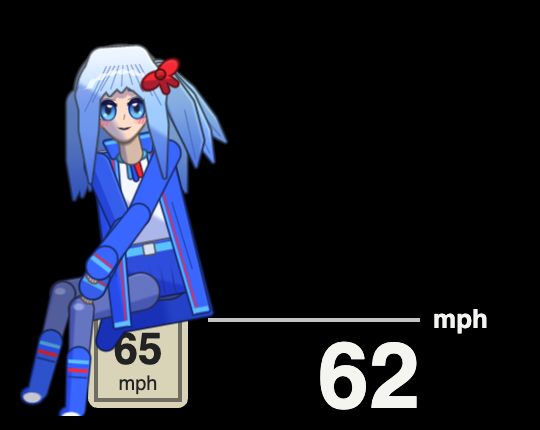
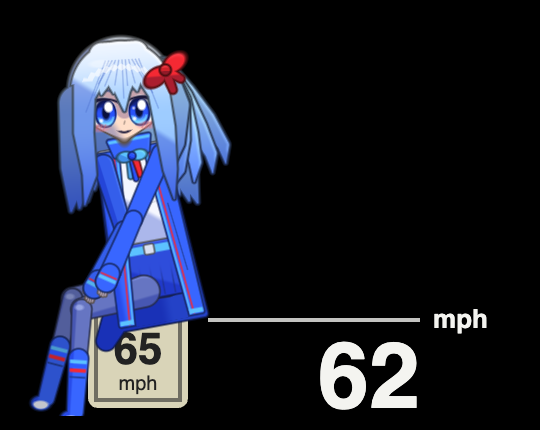
Custom HUD 0.1.7: Perch girl in a desktop mascot's style
Bigger head, round face with a small chin, big layered eyes with several
highlights and fine lashes, a fringe of thin pointed locks, wavy side locks
and a loose wavy five-strand ponytail with painted highlights, slimmer body,
limbs and hands, knees together. The neck now sits under the collar.

Changed region(s): [[0.0296, 0.0605, 0.4444, 0.9674]]

diff --git a/shared/shaders.js b/shared/shaders.js
@@ -1203,7 +1203,9 @@ void main() {
 const PERCH = `// The Perch layout's girl (GLSL ES 1.00): an original anime girl, toon shaded as a desktop mascot's 3D model is (a lit
 // side, a cool shadow side away from the light at the top right, a rim light, thin dark-tone outlines), in an open M-blue
 // racing coat with light blue and red trim over a white top with an M-stripe bow, shorts with a belt, tights and boots;
-// silver-to-blue hair with a fringe of separate locks, long side locks and a side ponytail of three strands. She sits on
+// silver-to-blue hair with a fringe of thin pointed locks, long wavy side locks and a loose wavy side ponytail of five
+// strands, painted highlights; a desktop mascot's proportions (a big head, big tall eyes low in a round face, a small
+// chin, a slim body and limbs). She sits on
 // the top-left corner of BMW's speed-limit sign leaning forward, hands on her knees, legs hanging off its left side.
 // Drawn from shapes in "model" units (the sign's corner is fixed, everything else is drawn u_scale times bigger), so
 // nothing is uploaded, and animated by the renderer's clock (u_time): legs swing (the near heel taps the sign), she
@@ -1243,6 +1245,7 @@ const vec3 LINE = vec3(0.1, 0.09, 0.22);
 const vec2 LIGHT = vec2(0.55, -0.835);
 
 float gK;   // screen px per drawing unit, for antialiasing
+const float HS = 1.36;   // the head's scale
 
 vec2 rot(vec2 p, float a) { float c = cos(a), s = sin(a); return vec2(c * p.x - s * p.y, s * p.x + c * p.y); }
 float sdSeg(vec2 p, vec2 a, vec2 b) { vec2 pa = p - a, ba = b - a; float h = clamp(dot(pa, ba) / dot(ba, ba), 0.0, 1.0); return length(pa - ba * h); }
@@ -1292,16 +1295,16 @@ void limb(inout vec4 c, vec2 p, vec2 a, vec2 b, float ra, float rb, vec3 col) {
 // a leg: thigh from the hip to the knee, shin hanging at angle a (0 = straight down, + = foot towards the sign)
 void leg(inout vec4 c, vec2 p, vec2 hip, vec2 knee, float a, float shade) {
     vec2 dir = vec2(sin(a), cos(a));
-    vec2 ankle = knee + dir * 31.0;
-    limb(c, p, hip, knee, 5.8, 4.0, TIGHTS * shade);
-    limb(c, p, knee, ankle, 3.7, 2.3, TIGHTS * shade);
-    paint(c, sdEll(p, knee + vec2(-1.0, -0.8), vec2(1.7, 1.1)), vec3(0.75, 0.8, 1.0) * shade, 0.55);   // the tights' sheen
+    vec2 ankle = knee + dir * 32.0;
+    limb(c, p, hip, knee, 4.9, 3.3, TIGHTS * shade);
+    limb(c, p, knee, ankle, 3.0, 1.9, TIGHTS * shade);
+    paint(c, sdEll(p, knee + vec2(-0.8, -0.6), vec2(1.4, 0.9)), vec3(0.75, 0.8, 1.0) * shade, 0.55);   // the tights' sheen
     // boot: from mid-shin, a white toe cap and sole, the M tricolour round its top
     vec2 bootTop = knee + dir * 16.0, toe = ankle + dir * 3.2 + rot(dir, 1.57) * 1.3;
-    float boot = min(sdLimb(p, bootTop, ankle + dir * 1.2, 3.6, 3.0), sdEll(p, toe, vec2(3.5, 2.7)));
-    toon(c, boot, limbN(p, bootTop, ankle, 3.6), BOOT * shade);
+    float boot = min(sdLimb(p, bootTop, ankle + dir * 1.2, 3.0, 2.5), sdEll(p, toe, vec2(3.0, 2.2)));
+    toon(c, boot, limbN(p, bootTop, ankle, 3.0), BOOT * shade);
     float inBoot = cov(boot + 0.25);
-    paint(c, sdEll(p, toe + dir * 0.8, vec2(3.0, 1.7)), TOP * shade, inBoot);
+    paint(c, sdEll(p, toe + dir * 0.7, vec2(2.6, 1.4)), TOP * shade, inBoot);
     float along = dot(p - bootTop, dir);
     paint(c, abs(along - 1.0) - 0.6, M_LIGHT * shade, inBoot);
     paint(c, abs(along - 2.4) - 0.6, M_DARK * shade * 1.15, inBoot);
@@ -1311,23 +1314,23 @@ void leg(inout vec4 c, vec2 p, vec2 hip, vec2 knee, float a, float shade) {
 
 // a hand: the palm, four fingers draped forward and down, the thumb on the inner side ("side" +1 / -1)
 void hand(inout vec4 c, vec2 p, vec2 wrist, vec2 fd, float side, float fist, float shade) {
-    vec2 pc = wrist + fd * 1.8;
+    vec2 pc = wrist + fd * 1.5;
     vec2 sd = vec2(-fd.y, fd.x);
-    float palm = sdEll(rot(p - pc, -atan(fd.y, fd.x)), vec2(0.0), vec2(2.1, 1.8));
+    float palm = sdEll(rot(p - pc, -atan(fd.y, fd.x)), vec2(0.0), vec2(1.8, 1.45));
     float fingers = 10.0;
     if (fist < 0.5) {
         vec2 f2 = normalize(fd + vec2(0.0, 0.7));
         for (int i = 0; i < 4; i++) {
             float k = float(i) - 1.5;
-            vec2 r = pc + fd * 1.2 + sd * k * 0.85;
-            fingers = min(fingers, sdLimb(p, r, r + f2 * (2.9 - abs(k) * 0.35), 0.55, 0.42));
+            vec2 r = pc + fd * 1.1 + sd * k * 0.68;
+            fingers = min(fingers, sdLimb(p, r, r + f2 * (2.7 - abs(k) * 0.35), 0.44, 0.3));
         }
-        fingers = min(fingers, sdLimb(p, pc + sd * side * 1.4, pc + sd * side * 2.4 + fd * 1.6, 0.6, 0.45));   // thumb
-    } else palm = sdEll(p, pc + fd * 0.6, vec2(2.4, 2.3));
+        fingers = min(fingers, sdLimb(p, pc + sd * side * 1.1, pc + sd * side * 2.0 + fd * 1.5, 0.48, 0.34));   // thumb
+    } else palm = sdEll(p, pc + fd * 0.6, vec2(2.0, 1.9));
     float d = min(palm, fingers);
     toon(c, d, (p - pc) / 3.0, SKIN * shade);
     if (fist < 0.5) for (int i = 0; i < 3; i++) {
-        vec2 r = pc + fd * 1.2 + sd * (float(i) - 1.0) * 0.85;
+        vec2 r = pc + fd * 1.1 + sd * (float(i) - 1.0) * 0.68;
         paint(c, sdSeg(p, r, r + normalize(fd + vec2(0.0, 0.7)) * 2.2) - 0.08, SKIN * 0.55, cov(d + 0.2) * 0.8);   // the gaps
     }
 }
@@ -1337,16 +1340,16 @@ void arm(inout vec4 c, vec2 p, vec2 sh, vec2 wr, float l, float out_, float fist
     vec2 m = (sh + wr) * 0.5, d = wr - sh;
     float h = sqrt(max(0.0, l * l - dot(d, d) * 0.25));
     vec2 el = m + normalize(vec2(-d.y, d.x)) * h * out_;
-    limb(c, p, sh, el, 4.0, 3.4, COAT * shade);
+    limb(c, p, sh, el, 3.1, 2.6, COAT * shade);
     vec2 fd = normalize(wr - el);
-    limb(c, p, el, wr - fd * 1.0, 3.4, 3.9, COAT * shade);    // the sleeve flares to the cuff
+    limb(c, p, el, wr - fd * 1.0, 2.6, 3.1, COAT * shade);    // the sleeve flares to the cuff
     hand(c, p, wr - fd * 1.6, fd, side, fist, shade);
     // the cuff: a light blue band with a red line, drawn over the wrist
-    float cuff = sdLimb(p, wr - fd * 4.2, wr - fd * 1.0, 3.8, 4.0);
-    toon(c, cuff, limbN(p, el, wr, 4.0), COAT * shade);
+    float cuff = sdLimb(p, wr - fd * 3.8, wr - fd * 1.0, 3.0, 3.2);
+    toon(c, cuff, limbN(p, el, wr, 3.2), COAT * shade);
     float along = dot(p - wr, fd);
-    paint(c, abs(along + 2.0) - 0.75, M_LIGHT * shade, cov(cuff + 0.2));
-    paint(c, abs(along + 3.3) - 0.3, M_RED * shade, cov(cuff + 0.2));
+    paint(c, abs(along + 1.9) - 0.6, M_LIGHT * shade, cov(cuff + 0.2));
+    paint(c, abs(along + 3.0) - 0.25, M_RED * shade, cov(cuff + 0.2));
 }
 
 void main() {
@@ -1365,7 +1368,7 @@ void main() {
     float breath = sin(t * 1.7);
     float ang = -0.2 + 0.3 * go - 0.16 * brake + 0.025 * sin(t * 0.8);
 
-    vec2 kneeN = sTop + vec2(-2.0, 3.0), kneeF = sTop + vec2(-8.0, -2.0);
+    vec2 kneeN = sTop + vec2(-2.0, 3.0), kneeF = sTop + vec2(-5.0, -0.5);
     float swing = mix(0.24, 0.12, moving) * (1.0 - brake);
     float oscN = mix(sin(t * 2.0), sin(t * 3.0), moving), oscF = mix(sin(t * 2.0 + 2.6), sin(t * 3.0 + 2.6), moving);
     float base = -0.08 + 0.1 * go - 0.45 * brake;
@@ -1374,15 +1377,15 @@ void main() {
 
     vec2 q = rot(p - hip, -ang);                    // her upper body's own frame, hip at 0, y down
     float tilt = 0.06 * sin(t * 0.55) * (1.0 - 0.5 * moving) + 0.1 - 0.1 * brake + 0.05 * go;
-    vec2 head = vec2(0.0, -61.5 + breath * 0.4);
-    vec2 h = rot(q - head, -tilt) / 1.2;            // the head's frame, 1.2x
+    vec2 head = vec2(0.0, -61.8 + breath * 0.4);
+    vec2 h = rot(q - head, -tilt) / HS;             // the head's frame, HS times bigger (a desktop mascot's big head)
 
     vec4 c = vec4(0.0);
     float flutter = sin(t * 1.6) * 0.14 * (1.0 - spd) + (sin(t * 7.0) * 0.06 + sin(t * 11.0 + 1.3) * 0.035) * spd;
     float blow = spd * 0.85 + brake * 0.3;
 
     // ---- behind everything: the long hair down her back, the side ponytail, the coat's back and lining
-    gK = K * 1.2;
+    gK = K * HS;
     {
         // the crown, and four long locks down each side behind the shoulders, swaying and blown back with speed
         float backHair = sdEll(h, vec2(0.0, -2.0), vec2(12.6, 13.0));
@@ -1398,52 +1401,58 @@ void main() {
     }
     vec2 tie = vec2(10.8, -6.5);
     vec2 d0 = normalize(mix(vec2(0.3, 1.0), vec2(1.0, 0.05), blow));
-    for (int s = 0; s < 3; s++) {
-        float fs = float(s) - 1.0;
-        float ph = fs * 0.7;
-        vec2 a0 = tie + vec2(0.5, 0.8) * fs;
-        vec2 a1 = a0 + rot(d0, flutter + fs * 0.12) * 9.5;
-        vec2 a2 = a1 + rot(d0, flutter * 2.0 + 0.15 + fs * 0.18 + 0.05 * sin(t * 1.3 + ph)) * 9.5;
-        vec2 a3 = a2 + rot(d0, flutter * 3.0 + 0.3 + fs * 0.3 + 0.1 * sin(t * 1.1 + ph)) * (8.5 - abs(fs) * 1.5);
-        float dS = min(min(sdLimb(h, a0, a1, 3.0, 3.6), sdLimb(h, a1, a2, 3.6, 2.6)), sdLimb(h, a2, a3, 2.6, 0.25));
-        toon(c, dS, limbN(h, a0, a3, 3.6), hairCol(h.y + 6.0 + fs * 2.0) * (s == 1 ? 1.0 : 0.88));
-        paint(c, sdSeg(h, mix(a1, a2, 0.1) + vec2(0.6, 0.0), mix(a2, a3, 0.7)) - 0.12, HAIR_B * 0.7, cov(dS + 0.6) * 0.8);   // strand line
+    for (int s = 0; s < 5; s++) {
+        float fs = float(s) / 2.0 - 1.0;               // -1 .. 1 across the tail
+        float ph = fs * 1.3;
+        vec2 a0 = tie + vec2(0.4, 0.7) * fs;
+        vec2 dn = rot(d0, 1.5708);
+        // a loose wave running down the strand, a little out of step with its neighbours
+        vec2 a1 = a0 + rot(d0, flutter + fs * 0.16) * 8.0 + dn * sin(t * 1.4 + ph) * 0.8;
+        vec2 a2 = a1 + rot(d0, flutter * 2.0 + 0.12 + fs * 0.24) * 8.0 + dn * sin(t * 1.4 + ph - 1.2) * 1.4;
+        vec2 a3 = a2 + rot(d0, flutter * 3.0 + 0.25 + fs * 0.36) * 7.5 + dn * sin(t * 1.4 + ph - 2.4) * 1.8;
+        vec2 a4 = a3 + rot(d0, flutter * 3.5 + 0.5 + fs * 0.5) * (5.5 - abs(fs) * 1.5) + dn * sin(t * 1.4 + ph - 3.6) * 1.6;
+        float dS = min(min(sdLimb(h, a0, a1, 2.2, 2.6), sdLimb(h, a1, a2, 2.6, 2.2)), min(sdLimb(h, a2, a3, 2.2, 1.4), sdLimb(h, a3, a4, 1.4, 0.15)));
+        toon(c, dS, limbN(h, a0, a4, 2.6), hairCol(h.y + 5.0 + abs(fs) * 3.0) * (0.86 + 0.14 * (1.0 - abs(fs))));
+        paint(c, sdSeg(h, mix(a0, a1, 0.5) + dn * 0.5, mix(a1, a2, 0.6) + dn * 0.5) - 0.18, vec3(1.0), cov(dS + 0.5) * 0.45);   // a painted highlight
     }
     gK = K;
-    float coatBack = sdTrap(q, vec2(0.0, -17.0), 11.5, 15.5, 28.0) - 1.0;
+    float coatBack = sdTrap(q, vec2(0.0, -17.0), 10.0, 13.8, 28.0) - 1.0;
     coatBack = min(coatBack, sdLimb(q, vec2(-12.0, 4.0), vec2(-19.0, 14.0), 5.0, 3.0));   // the tail draped over the sign's edge
     toon(c, coatBack, vec2(q.x / 18.0, 0.4), LINING);
 
     // ---- far leg, then the body
-    leg(c, p, hip + rot(vec2(4.0, -2.0), ang * 0.3), kneeF, aF, 0.8);
-    float hips = sdTrap(q, vec2(0.0, -6.0), 8.0, 12.0, 8.0) - 1.0;
+    leg(c, p, hip + rot(vec2(3.0, -2.0), ang * 0.3), kneeF, aF, 0.8);
+    float hips = sdTrap(q, vec2(0.0, -6.0), 7.0, 10.5, 8.0) - 1.0;
     toon(c, hips, (q - vec2(0.0, -6.0)) / vec2(13.0, 9.0), SHORTS);
     paint(c, abs(fract((q.x + 40.0) / 3.4) - 0.5) * 3.4 - 0.2, SHORTS * 0.6, cov(hips + 0.4) * smoothstep(-8.0, 0.0, q.y) * 0.8);   // pleats
     float belt = max(hips + 0.3, abs(q.y + 12.6) - 1.3);
     paint(c, belt, M_LIGHT, 1.0);
-    toon(c, sdBoxR(q, vec2(0.0, -12.6), vec2(1.6, 1.6)), vec2(0.3, -0.3), vec3(0.85, 0.88, 0.95));  // buckle
-    float chest = sdTrap(q, vec2(0.0, -31.0 + breath * 0.25), 11.5, 8.0, 14.0) - 1.5;
+    toon(c, sdBoxR(q, vec2(0.0, -12.6), vec2(1.4, 1.4)), vec2(0.3, -0.3), vec3(0.85, 0.88, 0.95));  // buckle
+    float chest = sdTrap(q, vec2(0.0, -31.0 + breath * 0.25), 9.6, 7.0, 14.0) - 1.4;
     toon(c, chest, (q - vec2(0.0, -31.0)) / vec2(13.0, 16.0), TOP);
     paint(c, abs(length((q - vec2(0.0, -40.0)) * vec2(0.7, 1.0)) - 13.0) - 0.15, TOP * 0.72, cov(chest + 1.5) * step(q.y, -24.0) * 0.6);   // a fold under the chest
 
+    // the neck, under the collar
+    toon(c, sdLimb(q, vec2(0.0, -44.0), vec2(-0.6, -49.5), 2.6, 2.4), vec2(q.x / 2.6, 0.0), SKIN * 0.84);
+
     // near thigh, under the coat's front
-    vec2 hipN = hip + rot(vec2(-5.0, 1.0), ang * 0.3);
+    vec2 hipN = hip + rot(vec2(-4.0, 1.0), ang * 0.3);
     leg(c, p, hipN, kneeN, aN, 1.0);
 
     // the coat's front panels: open over the top, light blue trim along the opening and the hem
-    float outer = sdTrap(q, vec2(0.0, -17.5), 12.0, 15.0, 27.5) - 0.6;
-    float opening = sdTrap(q, vec2(0.0, -17.0), 4.5, 10.5, 29.0);
+    float outer = sdTrap(q, vec2(0.0, -17.5), 10.4, 13.2, 27.5) - 0.6;
+    float opening = sdTrap(q, vec2(0.0, -17.0), 4.0, 9.2, 29.0);
     float panels = max(outer, -opening);
     toon(c, panels, vec2(sign(q.x) * clamp((abs(q.x) - 7.0) / 9.0, -1.0, 1.0), 0.0), COAT);
     float inP = cov(panels + 0.2);
     paint(c, abs(opening) - 0.75, M_LIGHT, inP);
     paint(c, abs(opening - 1.5) - 0.25, M_RED, inP);
     paint(c, abs(q.y - 9.6) - 0.8, M_LIGHT, inP);
-    paint(c, sdSeg(q, vec2(-10.5, -30.0), vec2(-12.0, -6.0)) - 0.12, COAT * 0.55, inP);   // fold lines
-    paint(c, sdSeg(q, vec2(10.0, -26.0), vec2(12.5, -4.0)) - 0.12, COAT * 0.55, inP);
+    paint(c, sdSeg(q, vec2(-9.0, -30.0), vec2(-10.5, -6.0)) - 0.12, COAT * 0.55, inP);   // fold lines
+    paint(c, sdSeg(q, vec2(8.6, -26.0), vec2(11.0, -4.0)) - 0.12, COAT * 0.55, inP);
     // stand collar and the M-stripe bow
-    toon(c, sdTrap(q, vec2(0.0, -46.5), 7.5, 6.0, 2.4) - 0.6, vec2(q.x / 9.0, -0.2), COAT);
-    paint(c, abs(q.y + 48.6) - 0.5, M_LIGHT, cov(sdTrap(q, vec2(0.0, -46.5), 7.5, 6.0, 2.4) - 0.4));
+    toon(c, sdTrap(q, vec2(0.0, -46.5), 6.4, 5.2, 2.4) - 0.6, vec2(q.x / 9.0, -0.2), COAT);
+    paint(c, abs(q.y + 48.6) - 0.5, M_LIGHT, cov(sdTrap(q, vec2(0.0, -46.5), 6.4, 5.2, 2.4) - 0.4));
     vec2 bw = q - vec2(0.0, -43.2);
     for (int i = 0; i < 3; i++) {
         float k = float(i) - 1.0;
@@ -1454,34 +1463,38 @@ void main() {
     toon(c, length(bw) - 1.0, bw, M_DARK);
 
     // ---- arms: hands on her knees; pulling away hard, her far hand (the screen's right) goes up in a fist
-    vec2 shN = hip + rot(vec2(-11.5, -42.0), ang), shF = hip + rot(vec2(11.5, -42.0), ang);
+    vec2 shN = hip + rot(vec2(-9.6, -42.0), ang), shF = hip + rot(vec2(9.6, -42.0), ang);
     float cheer = smoothstep(0.45, 0.8, go);
-    vec2 wrN = kneeN + vec2(3.0, -6.5);
-    vec2 wrF = mix(kneeF + vec2(11.0, -8.0), shF + vec2(16.0 + sin(t * 9.0) * 1.0, -17.0), cheer);
+    vec2 wrN = kneeN + vec2(3.5, -6.0);
+    vec2 wrF = mix(kneeN + vec2(7.5, -8.0), shF + vec2(16.0 + sin(t * 9.0) * 1.0, -17.0), cheer);
     arm(c, p, shN, wrN, 22.0, -1.0, 0.0, 1.0, 0.92);
     arm(c, p, shF, wrF, 22.0, mix(-1.0, 1.0, cheer), cheer, -1.0, 1.0);
 
-    // ---- neck and head (1.2x)
-    toon(c, sdLimb(q, vec2(0.0, -44.0), vec2(0.0, -49.5), 3.4, 3.1), vec2(q.x / 3.4, 0.0), SKIN * 0.84);
-    gK = K * 1.2;
-    float rx = 8.9 - 3.6 * clamp((h.y - 1.0) / 9.5, 0.0, 1.0);
-    float face = (length(vec2(h.x / rx, h.y / 10.7)) - 1.0) * min(rx, 10.7);
+    // ---- neck and head
+    gK = K * HS;
+    float jaw = clamp((h.y - 3.0) / 6.3, 0.0, 1.0);
+    float rx = 9.6 * (1.0 - 0.68 * jaw * jaw);             // round cheeks curving into a small chin
+    float face = (length(vec2(h.x / rx, h.y / 9.3)) - 1.0) * min(rx, 9.3);
     toon(c, face, vec2(h.x / 11.0, h.y / 30.0), SKIN);
 
     // the fringe's locks (used for its shadow on the face, then drawn)
     float bangs = max(sdEll(h, vec2(0.0, -2.0), vec2(11.9, 12.0)), h.y + 4.5);
-    for (int i = 0; i < 9; i++) {
-        float f = float(i) / 4.0 - 1.0;
-        vec2 r0 = vec2(f * 4.5, -11.0);
-        vec2 tip = vec2(f * 10.6 + 0.7 * sin(f * 3.0), -3.0 + 7.8 * f * f + 0.7 * sin(float(i) * 2.3) + flutter * 1.5 * f);
-        vec2 mid = mix(r0, tip, 0.55) + vec2(f * 1.4, 0.0);
-        bangs = min(bangs, min(sdLimb(h, r0, mid, 3.6, 2.9), sdLimb(h, mid, tip, 2.9, 0.3)));
+    for (int i = 0; i < 11; i++) {
+        float f = float(i) / 5.0 - 1.0;
+        float tx = f * 10.4, ax = abs(tx);
+        float ty = ax < 1.4 ? 2.4 : (ax < 7.0 ? -2.0 + 0.5 * sin(float(i) * 2.3) : -2.0 + (ax - 7.0) * 2.4);
+        vec2 r0 = vec2(f * 4.0, -11.0);
+        vec2 tip = vec2(tx + 0.6 * sin(float(i) * 1.7), ty + flutter * 1.2 * f);
+        vec2 mid = mix(r0, tip, 0.55) + vec2(f * 1.3, 0.0);
+        bangs = min(bangs, min(sdLimb(h, r0, mid, 2.9, 2.2), sdLimb(h, mid, tip, 2.2, 0.15)));
     }
     float locks = 10.0;
     for (int s = 0; s < 2; s++) {
         float sx = s == 0 ? -1.0 : 1.0;
-        vec2 l0 = vec2(sx * 8.4, -4.0), l1 = vec2(sx * 9.4, 7.0), l2 = vec2(sx * (9.6 + blow * 2.5 * (sx > 0.0 ? 1.0 : 0.3)) + flutter * 2.0, 21.0);
-        locks = min(locks, min(sdLimb(h, l0, l1, 2.8, 2.5), sdLimb(h, l1, l2, 2.5, 0.3)));
+        float wv = sin(t * 1.3 + sx) * 0.7;
+        vec2 l0 = vec2(sx * 8.6, -4.0), l1 = vec2(sx * 9.6 + wv * 0.4, 7.0), l2 = vec2(sx * (9.0 + blow * 2.5 * (sx > 0.0 ? 1.0 : 0.3)) + flutter * 2.0 + wv, 17.0),
+             l3 = vec2(sx * (10.2 + blow * 3.5 * (sx > 0.0 ? 1.0 : 0.3)) + flutter * 3.0 - wv, 24.0);
+        locks = min(locks, min(sdLimb(h, l0, l1, 2.5, 2.3), min(sdLimb(h, l1, l2, 2.3, 1.6), sdLimb(h, l2, l3, 1.6, 0.15))));
     }
     // the fringe's shadow on the forehead
     paint(c, max(bangs - 1.8, face), SKIN * vec3(0.78, 0.74, 0.86), 1.0);
@@ -1495,45 +1508,50 @@ void main() {
     float open = clamp(1.0 - max(blink, max(happy, squint)), 0.0, 1.0);
     for (int i = 0; i < 2; i++) {
         float sx = i == 0 ? -1.0 : 1.0;
-        vec2 e = h - vec2(sx * 4.1, 1.7);
+        vec2 e = h - vec2(sx * 4.3, 2.6);
         vec2 m = vec2(e.x * sx, e.y);                 // mirrored: +x is the eye's outer corner
         if (open < 0.18 && squint > 0.5) {
-            paint(c, min(sdSeg(m, vec2(2.2, -2.0), vec2(-1.6, 0.0)), sdSeg(m, vec2(2.2, 2.0), vec2(-1.6, 0.0))) - 0.5, LINE, 1.0);
+            paint(c, min(sdSeg(m, vec2(2.4, -2.2), vec2(-1.7, 0.0)), sdSeg(m, vec2(2.4, 2.2), vec2(-1.7, 0.0))) - 0.42, LINE, 1.0);
         } else if (open < 0.18) {
             float k = happy > 0.5 ? 1.0 : -1.0;
-            vec2 ce = vec2(0.0, happy > 0.5 ? 1.4 : -0.8);
-            paint(c, max(abs(length(e - ce) - 2.5) - 0.48, k * (e.y - ce.y)), LINE, 1.0);
-            if (happy < 0.5) paint(c, sdSeg(m, vec2(2.3, 0.0), vec2(3.1, -0.6)) - 0.3, LINE, 1.0);
+            vec2 ce = vec2(0.0, happy > 0.5 ? 1.6 : -0.6);
+            paint(c, max(abs(length(e - ce) - 2.8) - 0.4, k * (e.y - ce.y)), LINE, 1.0);
+            if (happy < 0.5) paint(c, sdSeg(m, vec2(2.6, 0.2), vec2(3.4, -0.4)) - 0.25, LINE, 1.0);
         } else {
             // the lids close towards the lower lash line: the open eye squashed by "open"
-            m.y = (m.y - 3.4) / max(open, 0.18) + 3.4; e.y = m.y;
-            float white = sdEll(m, vec2(0.15, 0.25), vec2(2.8, 3.3));
+            m.y = (m.y - 3.6) / max(open, 0.18) + 3.6; e.y = m.y;
+            float white = sdEll(m, vec2(0.1, 0.1), vec2(3.0, 3.7));
             paint(c, white, vec3(1.0), 1.0);
-            float iris = sdEll(m, vec2(-0.25, 0.6), vec2(2.25, 3.0));
             float inW = cov(white);
-            paint(c, iris, mix(IRIS_T, IRIS_B, smoothstep(-1.8, 2.6, e.y)), inW);
-            paint(c, abs(iris + 0.15) - 0.22, IRIS_T * 0.8, inW);                                   // the iris ring
-            paint(c, sdEll(m, vec2(-0.25, 0.3), vec2(0.85, 1.35)), LINE, inW * 0.9);                 // pupil
-            paint(c, max(white, e.y + 0.9), IRIS_T * 0.35, inW * 0.45);                            // the lid's shadow
-            paint(c, length(e - vec2(-0.75 * sx + sx * 0.0, -0.9)) - 0.7, vec3(1.0), inW);           // highlights
-            paint(c, length(e - vec2(0.6 * sx, 1.7)) - 0.32, vec3(1.0), inW * 0.85);
-            // the upper lash line, thick, with an outer flick; a fine crease above; a short lower lash
-            float lash = abs(length((m - vec2(0.1, 2.2)) * vec2(1.0, 1.22)) - 4.4) - 0.5;
-            paint(c, max(lash, max(m.y + 0.4, abs(m.x - 0.2) - 2.9)), LINE, 1.0);
-            paint(c, sdLimb(m, vec2(2.4, -2.0), vec2(3.6, -2.7), 0.45, 0.12), LINE, 1.0);
-            paint(c, max(abs(length((m - vec2(0.0, 2.0)) * vec2(1.0, 1.2)) - 5.4) - 0.13, max(m.y + 2.0, abs(m.x) - 2.4)), SKIN * 0.55, 1.0);
-            paint(c, sdSeg(m, vec2(1.0, 3.2), vec2(2.4, 2.6)) - 0.15, LINE, 0.7);
+            float iris = sdEll(m, vec2(-0.35, 0.45), vec2(2.6, 3.4));
+            // the iris in layers: deep at the top under the lid, M blue, a light band low down, a dark ring
+            vec3 ic = mix(IRIS_T, M_DARK, smoothstep(-2.8, 0.2, m.y));
+            ic = mix(ic, IRIS_B, smoothstep(0.6, 3.2, m.y));
+            paint(c, iris, ic, inW);
+            paint(c, abs(iris + 0.2) - 0.24, IRIS_T * 0.7, inW);
+            paint(c, sdEll(m, vec2(-0.35, 0.1), vec2(0.9, 1.6)), IRIS_T * 0.45, inW);                 // pupil
+            paint(c, max(abs(sdEll(m, vec2(-0.35, 0.9), vec2(1.7, 1.9))) - 0.2, -(m.y - 1.2)), IRIS_B * 1.15, inW * 0.6);  // the reflected light low in the iris
+            paint(c, max(white, m.y + 1.2), IRIS_T * 0.4, inW * 0.4);                               // the lid's shadow
+            // highlights: a big one up towards the light, a small one opposite, a dot low down
+            paint(c, sdEll(m, vec2(0.7 * sx - 0.35, -1.2), vec2(1.0, 1.25)), vec3(1.0), inW);
+            paint(c, length(m - vec2(-0.35 - 1.2 * sx, 1.9)) - 0.42, vec3(1.0), inW * 0.9);
+            paint(c, length(m - vec2(-1.6, -0.6)) - 0.3, vec3(1.0), inW * 0.7);
+            // the upper lash line: fine, thicker towards the outer corner, with a short flick; a faint lower lash
+            float lash = abs(length((m - vec2(0.0, 2.6)) * vec2(1.0, 1.08)) - 6.2) - mix(0.26, 0.5, smoothstep(-2.0, 2.5, m.x));
+            paint(c, max(lash, max(m.y + 1.0, abs(m.x) - 3.3)), LINE, 1.0);
+            paint(c, sdLimb(m, vec2(2.9, -2.4), vec2(3.9, -2.9), 0.36, 0.1), LINE, 1.0);
+            paint(c, max(abs(length((m - vec2(0.0, -1.0)) * vec2(1.0, 1.1)) - 4.9) - 0.16, max(-m.y + 3.0, abs(m.x - 0.6) - 2.0)), LINE, 0.45);
         }
-        paint(c, sdLimb(m, vec2(-2.0, -4.6), vec2(2.6, -5.0), 0.38, 0.15), HAIR_B * 0.55, 0.9);   // brows
+        paint(c, sdLimb(m, vec2(-2.2, -5.0), vec2(2.8, -5.6), 0.3, 0.12), HAIR_B * 0.55, 0.85);   // brows, high and fine
     }
     // blush with a few hatch lines; the nose; the mouth (a smile, a grin pulling away, a little o braking)
     for (int s = 0; s < 2; s++) {
         float sx = s == 0 ? -1.0 : 1.0;
-        paint(c, sdEll(h, vec2(sx * 5.4, 5.6), vec2(2.3, 1.0)), BLUSH, 0.42);
-        for (int j = 0; j < 3; j++) { float x0 = sx * (4.4 + float(j) * 0.9); paint(c, sdSeg(h, vec2(x0 + 0.4, 5.0), vec2(x0 - 0.2, 6.1)) - 0.1, BLUSH * 0.8, 0.8); }
+        paint(c, sdEll(h, vec2(sx * 5.6, 6.2), vec2(2.4, 1.0)), BLUSH, 0.38);
+        for (int j = 0; j < 3; j++) { float x0 = sx * (4.6 + float(j) * 0.9); paint(c, sdSeg(h, vec2(x0 + 0.4, 5.6), vec2(x0 - 0.2, 6.7)) - 0.09, BLUSH * 0.8, 0.7); }
     }
-    paint(c, sdSeg(h, vec2(0.5, 3.8), vec2(0.2, 4.8)) - 0.14, SKIN * 0.62, 1.0);
-    vec2 mo = h - vec2(0.2, 7.4);
+    paint(c, sdSeg(h, vec2(0.4, 5.0), vec2(0.2, 5.6)) - 0.12, SKIN * 0.62, 1.0);
+    vec2 mo = h - vec2(0.2, 7.5);
     float talk = smoothstep(0.85, 1.0, sin(t * 0.37)) * (1.0 - brake);
     float mOpen = max(talk, smoothstep(0.2, 0.6, go));
     if (mOpen > 0.03) {
@@ -1550,14 +1568,19 @@ void main() {
     float hairF = min(bangs, locks);
     toon(c, hairF, vec2(h.x / 12.0, (h.y + 2.0) / 13.0), hairCol(h.y));
     float inH = cov(hairF + 0.3);
-    for (int i = 0; i < 9; i++) {
-        float f = float(i) / 4.0 - 1.0;
-        vec2 r0 = vec2(f * 4.5 + 0.9, -9.5);
-        vec2 tip = vec2(f * 10.6 + 0.7 * sin(f * 3.0), -3.0 + 7.8 * f * f + 0.7 * sin(float(i) * 2.3) + flutter * 1.5 * f);
-        paint(c, sdSeg(h, r0, mix(r0, tip, 0.8) + vec2(f * 0.8, 0.0)) - 0.1, HAIR_B * 0.75, inH * 0.75);
+    for (int i = 0; i < 11; i++) {
+        float f = float(i) / 5.0 - 1.0;
+        float tx = f * 10.4, ax = abs(tx);
+        float ty = ax < 1.4 ? 2.4 : (ax < 7.0 ? -2.0 + 0.5 * sin(float(i) * 2.3) : -2.0 + (ax - 7.0) * 2.4);
+        vec2 r0 = vec2(f * 4.0 + 0.7, -9.5);
+        vec2 tip = vec2(tx + 0.6 * sin(float(i) * 1.7), ty + flutter * 1.2 * f);
+        paint(c, sdSeg(h, r0, mix(r0, tip, 0.75)) - 0.09, HAIR_B * 0.8, inH * 0.55);                  // the split between locks
     }
-    float ring = abs(length((h - vec2(0.0, -1.0)) * vec2(1.0, 1.45)) - 10.0) - 0.75 - 0.35 * sin(h.x * 2.2);
-    paint(c, max(ring, h.y + 4.0), vec3(1.0), inH * 0.7);
+    // the shine: a band of pointed light strokes round the crown, as painted on a toon model
+    float ring = abs(length((h - vec2(0.0, -1.5)) * vec2(1.0, 1.5)) - 9.6) - 0.9;
+    float teeth = abs(fract(h.x * 0.55 + 0.25) - 0.5) * 2.0;
+    paint(c, max(max(ring + teeth * 0.9 - 0.4, h.y + 5.0), -h.y - 14.0), vec3(1.0), inH * 0.62);
+    paint(c, max(sdEll(h, vec2(-4.5, -9.0), vec2(2.6, 0.9)), hairF), vec3(1.0), 0.35);
     // a red ribbon where the ponytail is tied: two loops and two tails
     vec2 rb = rot(h - tie, 0.6);
     float ribbon = min(min(sdEll(rb, vec2(-2.8, 0.0), vec2(2.8, 1.8)), sdEll(rb, vec2(2.8, 0.0), vec2(2.8, 1.8))),

diff --git a/CHANGELOG.md b/CHANGELOG.md
@@ -4,7 +4,7 @@ Newest first. Dates are when the build was pushed.
 
 ## Nov 8 2026
 
-- **Custom HUD 0.1.7:** the Redline layout is replaced by Perch: an original anime girl, toon shaded as a desktop mascot's 3D model is (lit and cool shadow sides, rim light, fine outlines), about 170 px on the HUD: an open M-blue coat with light blue and red trim over a white top with an M-stripe bow, shorts with a belt, tights and boots with white toe caps and the tricolour round their tops, silver-to-blue hair with a fringe of separate locks, long side locks and a three-strand side ponytail with a red ribbon, detailed eyes, hands with fingers; sits on the top-left corner of BMW's speed-limit sign, leaning forward with her hands on her knees and her legs hanging off its left side, clear of the speed. She is one effect layer (shaders.js perch, no pixel memory) animated on cluster-render's clock: her legs swing and the near heel taps the sign, she blinks, breathes, sways, now and then smiles as if talking, and her hair swings. The layout's "scale" (1.55) enlarges her about the sign's corner. She reacts to the smoothed longitudinal g: pulling away hard leans her back with a fist in the air and a grin, braking tips her forward with her feet flying up and her eyes > <; speed blows her ponytail out. Her movement is smooth: the g and speed are eased over 450 ms and sent in 0.01 steps, the leg swing and hair flutter blend fixed-speed motions instead of changing speed (which jumped them), her eyelids close gradually into a blink, a grin or > <, her mouth opens by degrees, and her heel eases onto the sign instead of stopping dead. She stays in every HUD mode. A saved Redline choice in any layout setting now means Perch (app.json config.choiceAliases). Her position assumes the bench's sign (x 152..202, y 320..374), and her coat's hem reaches about 9 px down over the sign's top, which BMW draws over: to check on the car.
+- **Custom HUD 0.1.7:** the Redline layout is replaced by Perch: an original anime girl, toon shaded as a desktop mascot's 3D model is (lit and cool shadow sides, rim light, fine outlines), about 170 px on the HUD: an open M-blue coat with light blue and red trim over a white top with an M-stripe bow, shorts with a belt, tights and boots with white toe caps and the tricolour round their tops, drawn in a desktop mascot's style: a big head on a slim body with slim limbs and hands, a round face with a small chin, big tall eyes low in the face (layered deep-blue-to-light irises, a reflected-light ring, three highlights, fine lashes thicker at the outer corner), knees together with her hands one over the other on them, silver-to-blue hair with a fringe of thin pointed locks (long between the eyes and at the sides), long wavy side locks, painted highlight strokes round the crown and a loose wavy five-strand side ponytail with a red ribbon; sits on the top-left corner of BMW's speed-limit sign, leaning forward with her hands on her knees and her legs hanging off its left side, clear of the speed. She is one effect layer (shaders.js perch, no pixel memory) animated on cluster-render's clock: her legs swing and the near heel taps the sign, she blinks, breathes, sways, now and then smiles as if talking, and her hair swings. The layout's "scale" (1.55) enlarges her about the sign's corner. She reacts to the smoothed longitudinal g: pulling away hard leans her back with a fist in the air and a grin, braking tips her forward with her feet flying up and her eyes > <; speed blows her ponytail out. Her movement is smooth: the g and speed are eased over 450 ms and sent in 0.01 steps, the leg swing and hair flutter blend fixed-speed motions instead of changing speed (which jumped them), her eyelids close gradually into a blink, a grin or > <, her mouth opens by degrees, and her heel eases onto the sign instead of stopping dead. She stays in every HUD mode. A saved Redline choice in any layout setting now means Perch (app.json config.choiceAliases). Her position assumes the bench's sign (x 152..202, y 320..374), and her coat's hem reaches about 9 px down over the sign's top, which BMW draws over: to check on the car.
 - **Custom HUD 0.1.6, Custom Cluster 0.1.25:** the app page's status row no longer runs off the screen when layers wait: why they aren't drawn ("Waiting: BMW is using this display", "Waiting: another app has this display", "2 of 5 layers drawn (...)", refusals) moves to a second row under it. The HUD also gets the shared engine's other changes since 0.1.5 (the demo drive's made-up boost, consumption in the units setting).
 - **Custom Cluster 0.1.25:** The average consumption (Sport and Regal) follows the units setting, mpg or l/100km, converted from whatever unit the car sends it in (it showed the car's own unit). Regal: the fuel gauge is centred in the lower window, and left of it a yellow LED boost bar mirrors the rev bar (0 to 1.5 bar in 15 segments, BOOST with 0 / 0.5 / 1.0 / 1.5 over it). Under the turn lamps, in the VFD's orange seven segments: the average consumption in the left pod (AVG FUEL, 9.8 L/100KM) and the outside temperature in the right (OUTSIDE, 24 °C). The left lamp is now the parking brake and Auto Hold instead of the brake lights: red PARK BRAKE while the parking brake is set (Vehicle2 statusStandstillFunctions, else VehicleStabilizationManagement StandStillFunction or CDS statusHandBrake), green AUTO HOLD while Auto Hold holds the car (StandStillFunction statusAutoH); the raw values are logged ("parking brake raw", "auto hold raw"). CRUISE is a lamp box like it, lit green, where the unlit SERVICE ENGINE SOON box was. The right pod's gauge is now the oil temperature (it was coolant), with an oil can by it: 50 / 110 / 150 °C, 110 (the B58's running temperature) at the middle mark, each half linear. The demo drive now makes up a boost from the throttle, so the boost readouts move on the bench.
 - **Custom Cluster 0.1.24:** Sport, while BMW is guiding: the bottom strip becomes the route's progress, filled blue from its right end leftwards (distance travelled over travelled plus left; Guidance travelledDistance and finalDestinationInfo), with "18.4 km left" (the distance as BMW's navigation shows it) at the strip's left end and "0:24 left" (h:mm) at its right. Without a route it is the pedal strip again. The route messages are logged ("route destination raw", "route travelled raw") to confirm them on the first route. The bench drives a made-up 24 km route while GUIDING is on.

diff --git a/apps/custom_hud/README.md b/apps/custom_hud/README.md
@@ -21,7 +21,7 @@ Puts your own readouts on the windshield HUD: speed, gear, a shift bar, boost, o
 
 - **Daily:** speed is the hero, with the gear, clock and oil.
 - **Sport:** a segmented shift bar, a big gear, speed, a boost gauge, oil and coolant.
-- **Perch:** an original anime girl in an open M-blue racing coat, toon shaded in the style of a desktop mascot, sits on the corner of BMW's speed-limit sign, leaning forward with her hands on her knees and her legs hanging off its left side so your speed stays clear. No readouts of our own, just her and BMW's HUD.
+- **Perch:** an original anime girl in an open M-blue racing coat, drawn in the style of a desktop mascot (big head, big glossy eyes, slim build, soft layered hair), sits on the corner of BMW's speed-limit sign, leaning forward with her knees together and her hands on them and her legs hanging off its left side so your speed stays clear. No readouts of our own, just her and BMW's HUD.
   - **Idle:** she swings her legs (a heel taps the sign), blinks, breathes, sways, smiles now and then, and her hair swings.
   - **Driving:** pull away hard and she leans back with a fist in the air and a big grin; brake and she tips forward, feet flying up, eyes squeezed shut. The faster you go, the more her ponytail streams out.
   - She is drawn on the GPU from shapes and animated by cluster-render's own clock, so she costs one layer and no pixel memory, and only a tiny update goes up when she changes pose.
